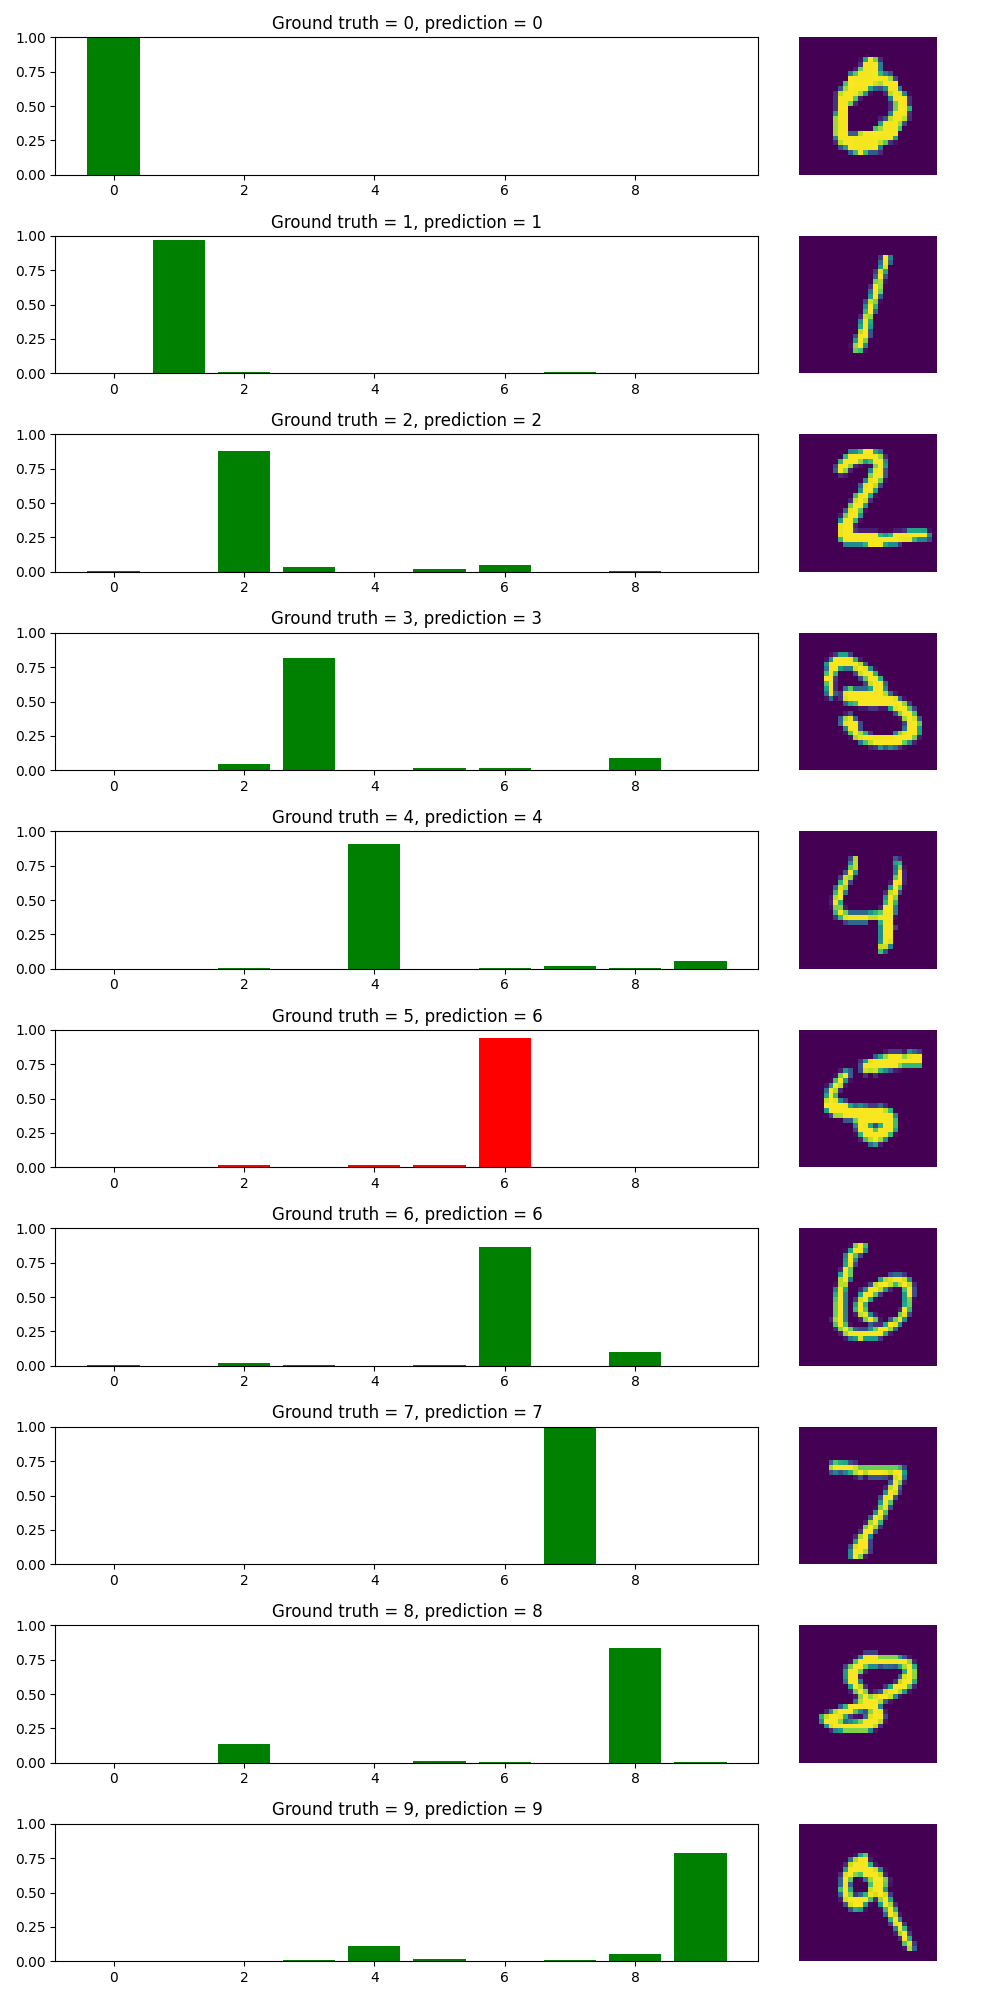
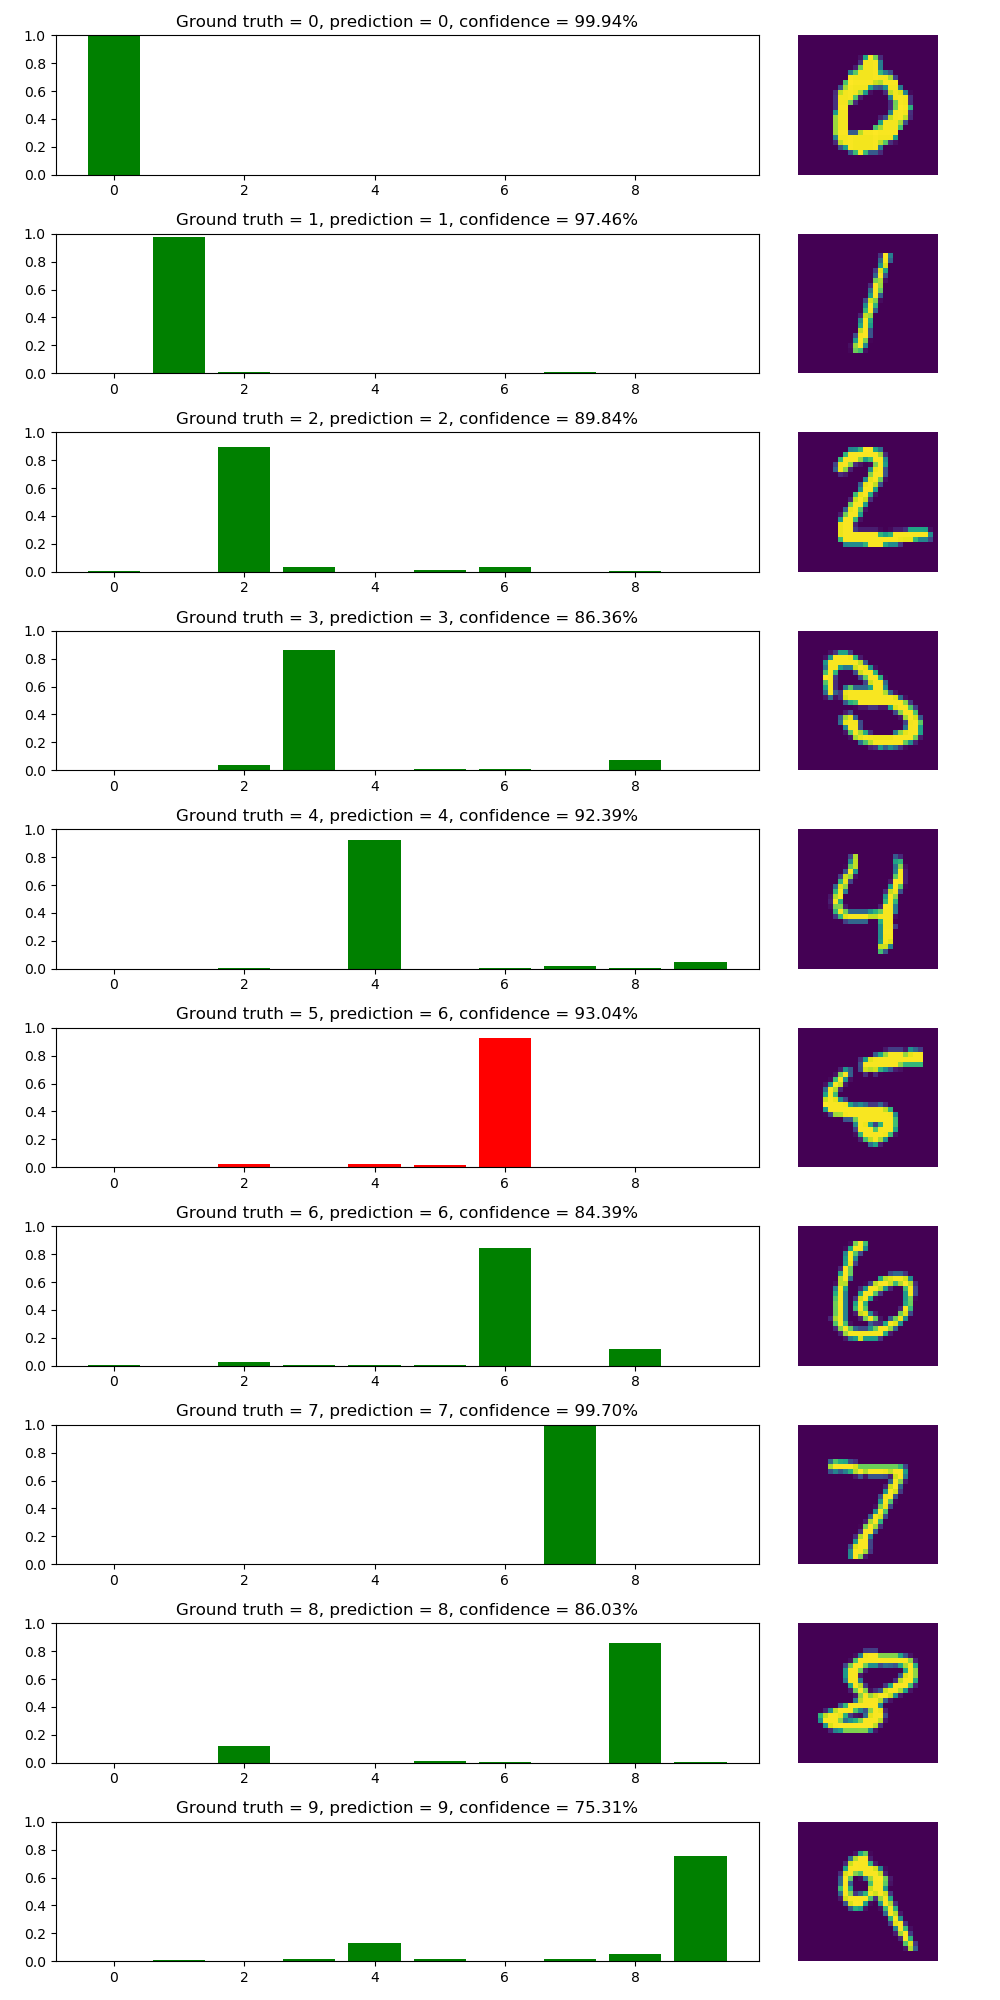
Refactor plot_predictions.py to use get_mnist_model() and update plot formatting

diff --git a/scripts/course_4_ml/assignment/plot_predictions.py b/scripts/course_4_ml/assignment/plot_predictions.py
@@ -11,37 +11,8 @@ import scripts.course_4_ml.assignment
 
 if __name__ == "__main__":
     program_timer = util.Timer(name="Full program")
-    mlp = nn.Mlp(
-        input_dim=28*28,
-        output_dim=10,
-        hidden_dim=400,
-        num_hidden_layers=2,
-        output_act=nn.activation.linear,
-        hidden_act=nn.activation.relu,
-    )
-    mlp.cuda(1)
-    train_loader, test_loader = nn.mnist.get_data_loaders()
-    sgd = nn.optimiser.SgdMomentum(
-        model=mlp,
-        momentum=0.8,
-        learning_rate=1e-3,
-    )
 
-    loss_list = []
-    time_list = []
-    timer = util.Timer()
-    for epoch in range(5):
-        print("Epoch %i" % epoch)
-        mlp.train(
-            train_loader,
-            nn.loss.cross_entropy_loss,
-            sgd,
-            loss_list,
-            time_list,
-            timer,
-        )
-
-        timer.print_time_taken()
+    mlp = scripts.course_4_ml.assignment.get_mnist_model()
 
     fig, axes = plt.subplots(
         nrows=10,
@@ -61,16 +32,14 @@ if __name__ == "__main__":
         while t != i:
             x, t = next(test_iter)
 
-        y = mlp.forward(x.cuda(1)).cpu().detach().numpy().squeeze()
+        y = mlp.forward(x).detach().numpy().squeeze()
+        y_softmax = np.exp(y) / np.sum(np.exp(y))
         axes[i, 0].set_title(
-            "Ground truth = %i, prediction = %i"
-            % (i, np.argmax(y))
+            "Ground truth = %i, prediction = %i, confidence = %.2f%%"
+            % (i, np.argmax(y_softmax), 100 * np.max(y_softmax))
         )
-        if i == np.argmax(y):
-            c = "g"
-        else:
-            c = "r"
-        axes[i, 0].bar(range(10), np.exp(y) / np.sum(np.exp(y)), color=c)
+        c = "g" if (np.argmax(y_softmax) == i) else "r"
+        axes[i, 0].bar(range(10), y_softmax, color=c)
         axes[i, 0].set_ylim([0, 1])
         axes[i, 1].imshow(x.squeeze())
         axes[i, 1].axis("off")
